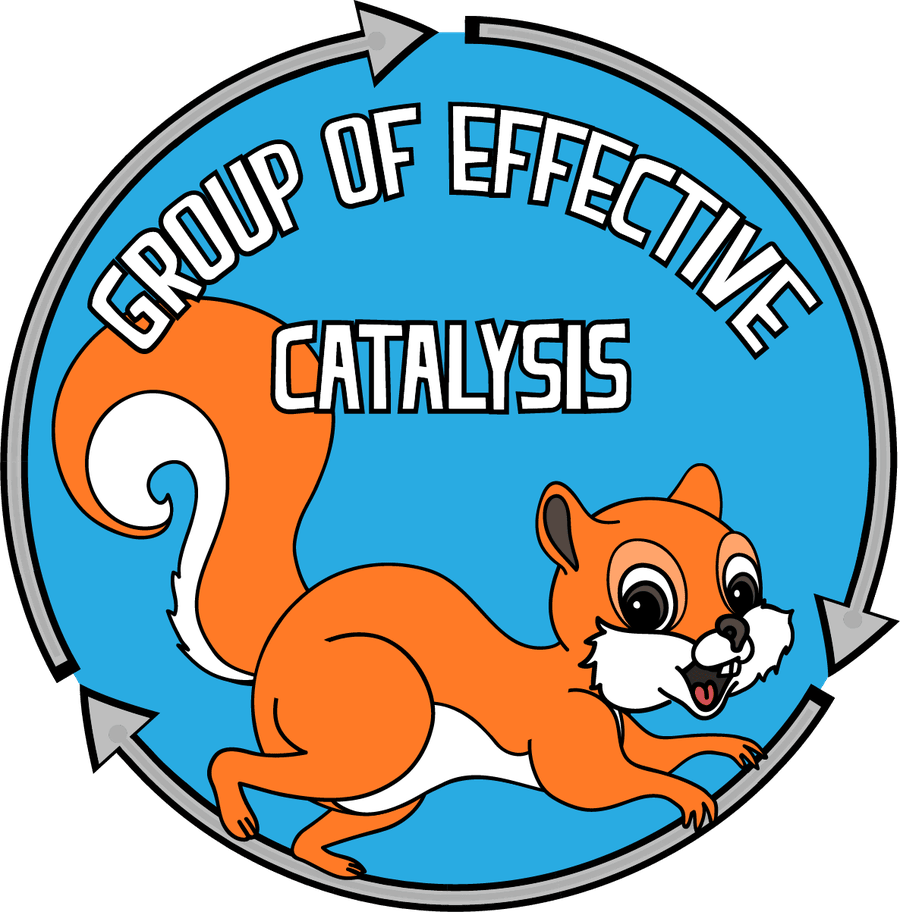
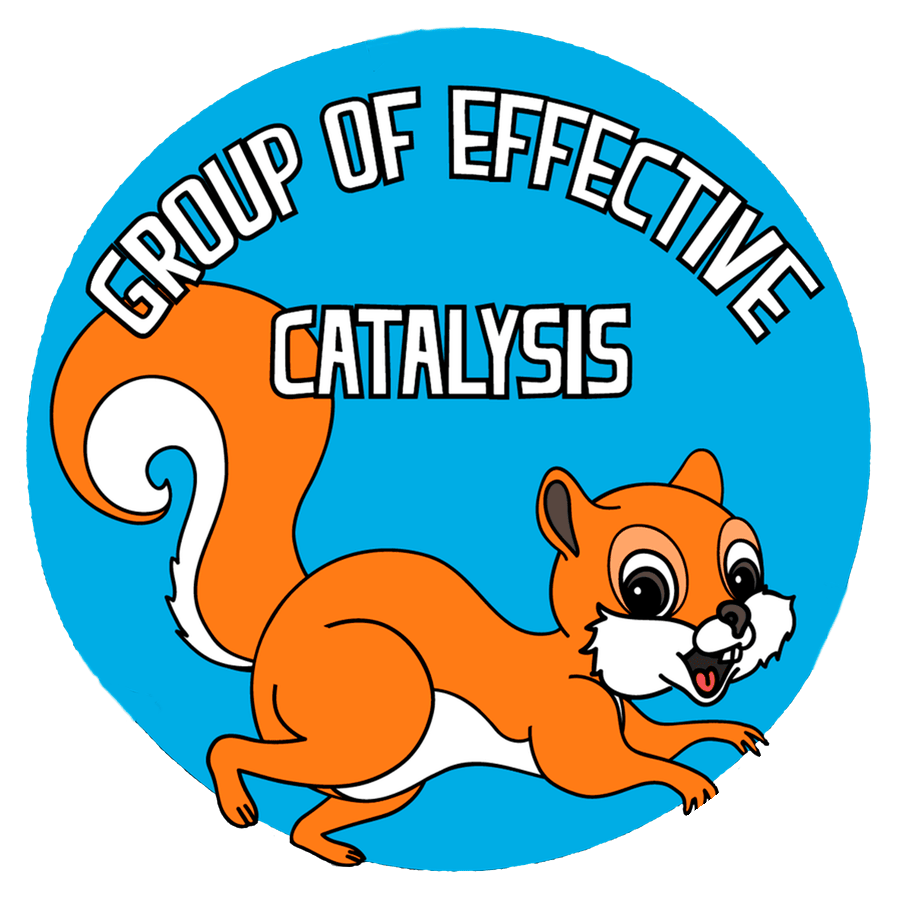
Use the updated ring-free emblem art, redraw the arrow ring to match
Ivan supplied a cleaner version of the badge with the grey arrow ring
removed entirely. Cropped it to a circle, made the background
transparent, and swapped it in as the new static layer -- this
removes the root cause of the earlier leftover-arrow artifact, since
there's no ring baked into the source anymore to leak through.

Redrew the rotating ring/arrow overlay to match the new art's circle
radius and dropped the now-unused pixel-mask asset and the SVG mask
plumbing it required.

Claude-Session: https://claude.ai/code/session_01GNn6h9La5A8hVeehvFr8Se

diff --git a/index.html b/index.html
@@ -47,14 +47,14 @@
   <div class="wrap">
     <div class="hero-emblem" id="hero-emblem" role="button" tabindex="0" aria-label="Spin the emblem and scroll to Publications">
       <div class="emblem-stack">
-        <svg class="emblem-badge" viewBox="0 0 900 912" role="img" aria-label="Group of Effective Catalysis emblem"><defs><mask id="emblem-badge-mask" maskUnits="userSpaceOnUse" x="0" y="0" width="900" height="912"><image href="assets/img/misc/emblem-badge-mask.png" x="0" y="0" width="900" height="912"></image></mask></defs><image href="assets/img/misc/emblem-hero.png" x="0" y="0" width="900" height="912" mask="url(#emblem-badge-mask)"></image></svg>
-        <svg class="emblem-ring" viewBox="0 0 900 912" aria-hidden="true">
-          <path d="M 898.0 547.2 A 458.0 458.0 0 0 1 308.5 887.6 L 319.0 855.2 A 424.0 424.0 0 0 0 864.7 540.2 Z"></path>
-          <path d="M 305.4 897.1 L 274.2 856.4 L 322.1 845.7 Z"></path>
-          <path d="M 143.5 792.4 A 458.0 458.0 0 0 1 143.5 111.6 L 166.3 136.9 A 424.0 424.0 0 0 0 166.3 767.1 Z"></path>
-          <path d="M 136.8 104.2 L 187.7 97.5 L 173.0 144.3 Z"></path>
-          <path d="M 308.5 16.4 A 458.0 458.0 0 0 1 898.0 356.8 L 864.7 363.8 A 424.0 424.0 0 0 0 319.0 48.8 Z"></path>
-          <path d="M 907.8 354.7 L 888.2 402.1 L 855.0 365.9 Z"></path>
+        <img class="emblem-badge" src="assets/img/misc/emblem-hero.png" width="900" height="900" alt="Group of Effective Catalysis emblem" loading="eager">
+        <svg class="emblem-ring" viewBox="0 0 900 900" aria-hidden="true">
+          <path d="M 908.0 450.0 A 458 458 0 0 1 402.1 905.5 L 405.7 871.7 A 424 424 0 0 0 874.0 450.0 Z"></path>
+          <path d="M 401.1 915.4 L 406.7 861.7 L 362.1 882.1 Z"></path>
+          <path d="M 221.0 846.6 A 458 458 0 0 1 79.5 180.8 L 107.0 200.8 A 424 424 0 0 0 238.0 817.2 Z"></path>
+          <path d="M 71.4 174.9 L 115.1 206.7 L 119.7 157.8 Z"></path>
+          <path d="M 221.0 53.4 A 458 458 0 0 1 868.4 263.7 L 837.3 277.5 A 424 424 0 0 0 238.0 82.8 Z"></path>
+          <path d="M 877.5 259.6 L 828.2 281.6 L 868.2 310.1 Z"></path>
         </svg>
       </div>
     </div>

diff --git a/_build/build.py b/_build/build.py
@@ -372,14 +372,14 @@ def build_home():
   <div class="wrap">
     <div class="hero-emblem" id="hero-emblem" role="button" tabindex="0" aria-label="Spin the emblem and scroll to Publications">
       <div class="emblem-stack">
-        <svg class="emblem-badge" viewBox="0 0 900 912" role="img" aria-label="Group of Effective Catalysis emblem"><defs><mask id="emblem-badge-mask" maskUnits="userSpaceOnUse" x="0" y="0" width="900" height="912"><image href="assets/img/misc/emblem-badge-mask.png" x="0" y="0" width="900" height="912"></image></mask></defs><image href="assets/img/misc/emblem-hero.png" x="0" y="0" width="900" height="912" mask="url(#emblem-badge-mask)"></image></svg>
-        <svg class="emblem-ring" viewBox="0 0 900 912" aria-hidden="true">
-          <path d="M 898.0 547.2 A 458.0 458.0 0 0 1 308.5 887.6 L 319.0 855.2 A 424.0 424.0 0 0 0 864.7 540.2 Z"></path>
-          <path d="M 305.4 897.1 L 274.2 856.4 L 322.1 845.7 Z"></path>
-          <path d="M 143.5 792.4 A 458.0 458.0 0 0 1 143.5 111.6 L 166.3 136.9 A 424.0 424.0 0 0 0 166.3 767.1 Z"></path>
-          <path d="M 136.8 104.2 L 187.7 97.5 L 173.0 144.3 Z"></path>
-          <path d="M 308.5 16.4 A 458.0 458.0 0 0 1 898.0 356.8 L 864.7 363.8 A 424.0 424.0 0 0 0 319.0 48.8 Z"></path>
-          <path d="M 907.8 354.7 L 888.2 402.1 L 855.0 365.9 Z"></path>
+        <img class="emblem-badge" src="assets/img/misc/emblem-hero.png" width="900" height="900" alt="Group of Effective Catalysis emblem" loading="eager">
+        <svg class="emblem-ring" viewBox="0 0 900 900" aria-hidden="true">
+          <path d="M 908.0 450.0 A 458 458 0 0 1 402.1 905.5 L 405.7 871.7 A 424 424 0 0 0 874.0 450.0 Z"></path>
+          <path d="M 401.1 915.4 L 406.7 861.7 L 362.1 882.1 Z"></path>
+          <path d="M 221.0 846.6 A 458 458 0 0 1 79.5 180.8 L 107.0 200.8 A 424 424 0 0 0 238.0 817.2 Z"></path>
+          <path d="M 71.4 174.9 L 115.1 206.7 L 119.7 157.8 Z"></path>
+          <path d="M 221.0 53.4 A 458 458 0 0 1 868.4 263.7 L 837.3 277.5 A 424 424 0 0 0 238.0 82.8 Z"></path>
+          <path d="M 877.5 259.6 L 828.2 281.6 L 868.2 310.1 Z"></path>
         </svg>
       </div>
     </div>
